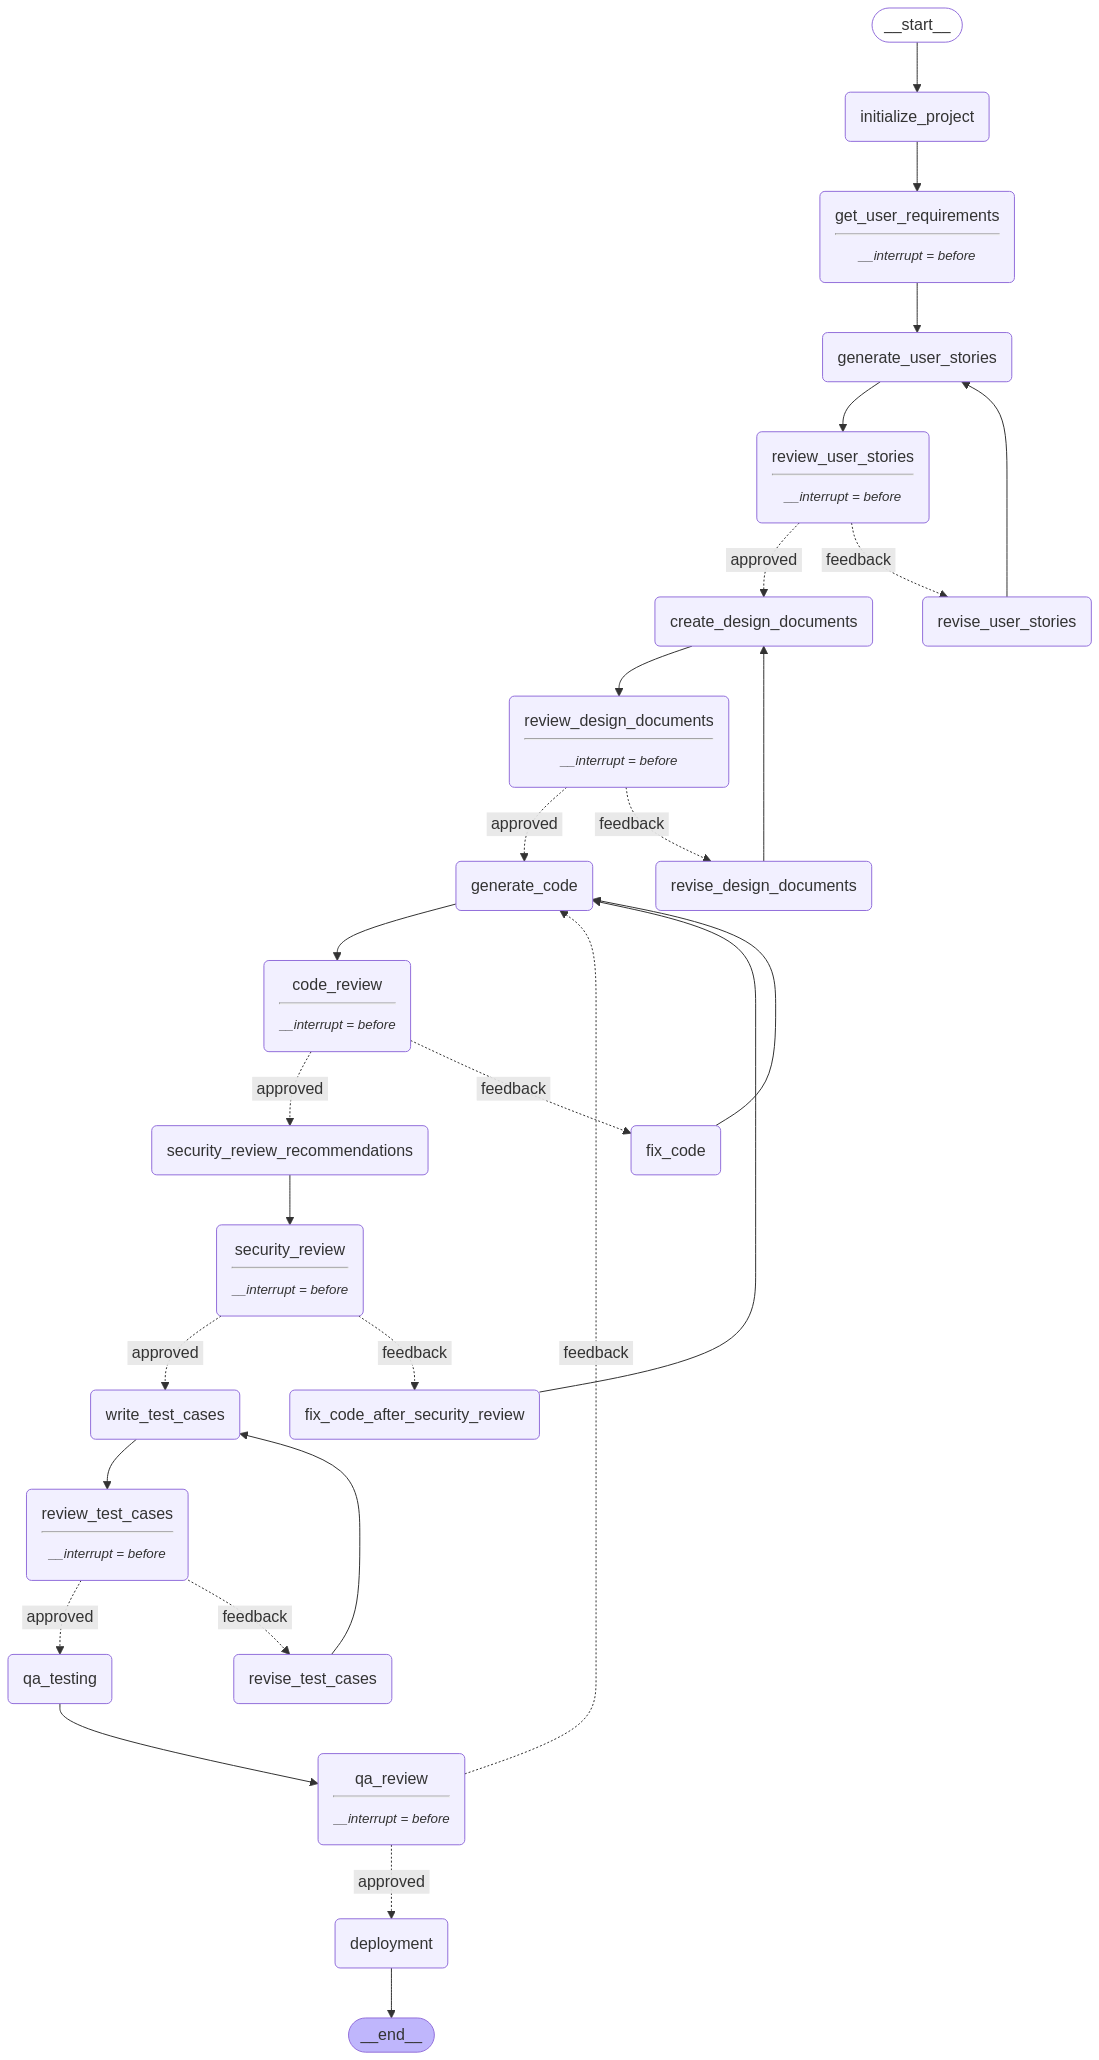
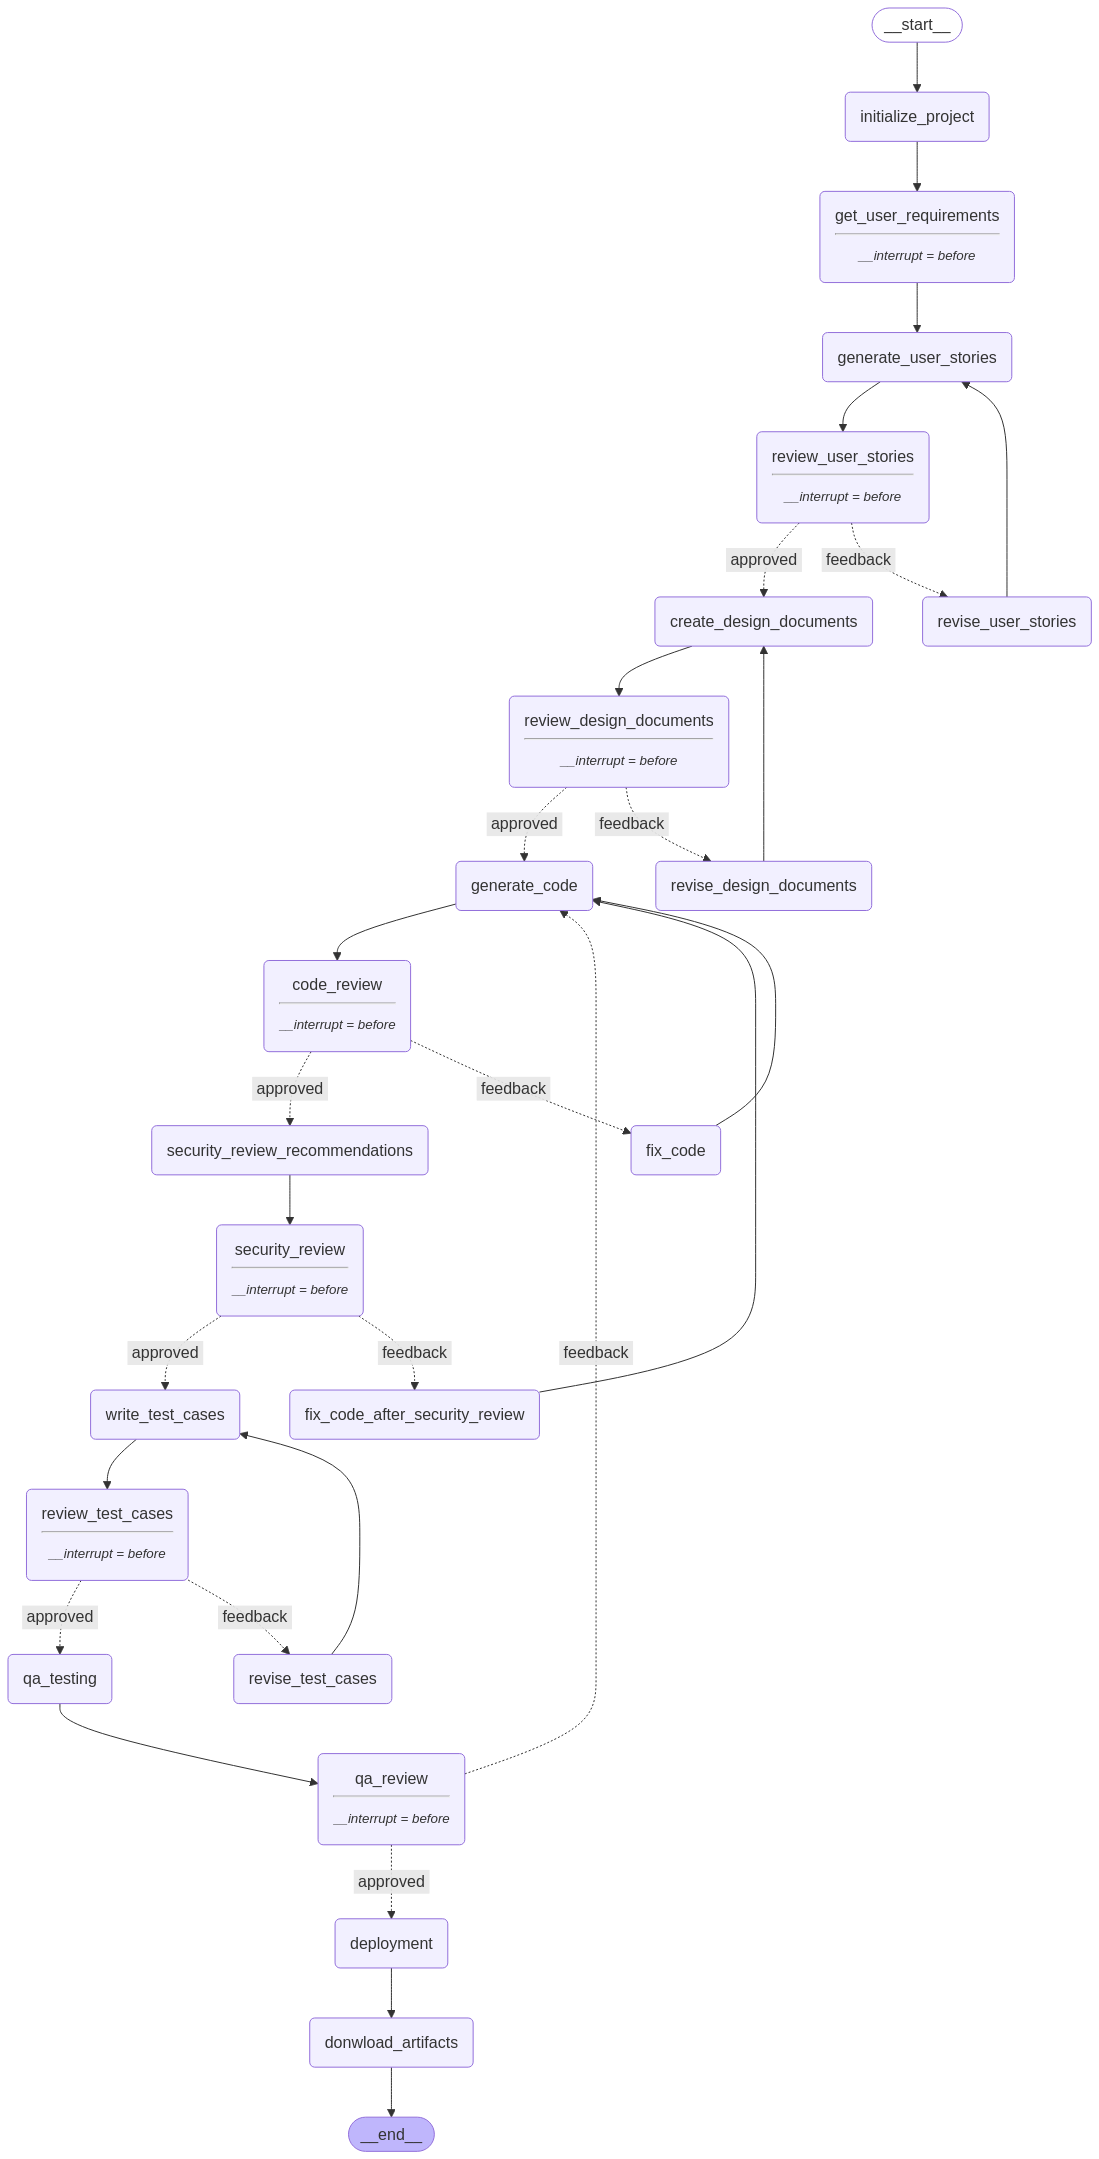
Artifacts download

diff --git a/src/sdlc_automation_agent/nodes/markdown_node.py b/src/sdlc_automation_agent/nodes/markdown_node.py
@@ -1,0 +1,123 @@
+import os
+from src.sdlc_automation_agent.state.sdlc_state import SDLCState
+from src.sdlc_automation_agent.utils.Utility import Utility
+
+class MarkdownArtifactsNode:
+    """
+    Graph Node for generating Markdown artifacts for the SDLC process.
+    This node generates Markdown files for:
+    - Project Requirements
+    - User Stories
+    - Design Documents
+    - Generated Code
+    and saves them to the "artifacts" folder.
+    """
+    
+    def __init__(self):
+        self.utility = Utility()
+    
+    def generate_markdown_artifacts(self, state: SDLCState):
+        """
+        Generate Markdown files for each step in the SDLC state and save them to the artifacts folder.
+        Returns the updated state with a new key 'artifacts' that maps to a dictionary of file paths.
+        """
+        artifacts_dir = "artifacts"
+        os.makedirs(artifacts_dir, exist_ok=True)
+        
+        project_name = state.get("project_name", "Project")
+        
+        # -- Project Requirements Markdown --
+        requirements = state.get("requirements", [])
+        md_project = f"# Project Requirement for {project_name}\n\n"
+        md_project += "## Requirements\n"
+        md_project += self.utility.format_list(requirements)
+        file_project = os.path.join(artifacts_dir, "Project_Requirement.md")
+        with open(file_project, "w") as f:
+            f.write(md_project)
+        
+        # -- User Stories Markdown --
+        user_stories = state.get("user_stories", None)
+        file_stories = None
+        if user_stories:
+            md_stories = f"# User Stories for {project_name}\n\n"
+            md_stories += self.utility.format_user_stories(user_stories)
+            file_stories = os.path.join(artifacts_dir, "User_Stories.md")
+            with open(file_stories, "w") as f:
+                f.write(md_stories)
+        
+        # -- Design Documents Markdown --
+        design_docs = state.get("design_documents", None)
+        file_design = None
+        if design_docs:
+            md_design = f"# Design Documents for {project_name}\n\n"
+            md_design += "## Functional Design Document\n"
+            md_design += design_docs.get("functional", "No Functional Design Document available.")
+            md_design += "\n\n## Technical Design Document\n"
+            md_design += design_docs.get("technical", "No Technical Design Document available.")
+            file_design = os.path.join(artifacts_dir, "Design_Documents.md")
+            with open(file_design, "w") as f:
+                f.write(md_design)
+        
+        # -- Generated Code Markdown --
+        code_generated = state.get("code_generated", None)
+        file_code = None
+        if code_generated:
+            md_code = f"# Generated Code for {project_name}\n\n"
+            md_code += "\n" + code_generated
+            file_code = os.path.join(artifacts_dir, "Generated_Code.md")
+            with open(file_code, "w") as f:
+                f.write(md_code)
+        
+       # -- Security Recommendations Markdown --
+        security_recommendations = state.get("security_recommendations", None)
+        file_security = None
+        if security_recommendations:
+            md_security = f"# Security Recommendations for {project_name}\n\n"
+            md_security += security_recommendations
+            file_security = os.path.join(artifacts_dir, "Security_Recommendations.md")
+            with open(file_security, "w") as f:
+                f.write(md_security)
+        
+        # -- Test Cases Markdown --
+        test_cases = state.get("test_cases", None)
+        file_tests = None
+        if test_cases:
+            md_tests = f"# Test Cases for {project_name}\n\n"
+            md_tests += "\n" + test_cases
+            file_tests = os.path.join(artifacts_dir, "Test_Cases.md")
+            with open(file_tests, "w") as f:
+                f.write(md_tests)
+        
+        # -- QA Testing Comments Markdown --
+        qa_testing_comments = state.get("qa_testing_comments", None)
+        file_qa = None
+        if qa_testing_comments:
+            md_qa = f"# QA Testing Comments for {project_name}\n\n"
+            md_qa += qa_testing_comments
+            file_qa = os.path.join(artifacts_dir, "QA_Testing_Comments.md")
+            with open(file_qa, "w") as f:
+                f.write(md_qa)
+        
+        # -- Deployment Feedback Markdown --
+        deployment_feedback = state.get("deployment_feedback", None)
+        file_deployment = None
+        if deployment_feedback:
+            md_deployment = f"# Deployment Feedback for {project_name}\n\n"
+            md_deployment += deployment_feedback
+            file_deployment = os.path.join(artifacts_dir, "Deployment_Feedback.md")
+            with open(file_deployment, "w") as f:
+                f.write(md_deployment)
+        
+        # Update the state with the paths to the generated artifact files.
+        state["artifacts"] = {
+            "Project_Requirements": file_project,
+            "User_Stories": file_stories,
+            "Design_Documents": file_design,
+            "Generated_Code": file_code,
+            "Security_Recommendations": file_security,
+            "Test_Cases": file_tests,
+            "QA_Testing_Comments": file_qa,
+            "Deployment_Feedback": file_deployment
+        }
+        print("Markdown artifacts generated in folder:", artifacts_dir)
+        return state

diff --git a/src/sdlc_automation_agent/ui/streamlit_ui/streamlit_app.py b/src/sdlc_automation_agent/ui/streamlit_ui/streamlit_app.py
@@ -125,7 +125,7 @@ def load_app():
             return
 
         # Create tabs for different stages
-        tabs = st.tabs(["Project Requirement", "User Stories", "Design Documents", "Code Generation", "Test Cases", "QA Testing", "Deployment"])
+        tabs = st.tabs(["Project Requirement", "User Stories", "Design Documents", "Code Generation", "Test Cases", "QA Testing", "Deployment", "Download Artifacts"])
 
         # ---------------- Tab 1: Project Requirement ----------------
         with tabs[0]:
@@ -424,9 +424,33 @@ def load_app():
                 if "deployment_feedback" in st.session_state.state:
                     deployment_feedback = st.session_state.state["deployment_feedback"]        
                     st.markdown(deployment_feedback)
+                    st.session_state.stage = const.ARTIFACTS
                                 
             else:
                 st.info("Deplopment verification pending or not reached yet.")
+                
+        # ---------------- Tab 8: Artifacts ----------------
+        with tabs[7]:
+            st.header("Artifacts")
+            if "artifacts" in st.session_state.state and st.session_state.state["artifacts"]:
+                st.subheader("Download Artifacts")
+                for artifact_name, artifact_path in st.session_state.state["artifacts"].items():
+                    if artifact_path:
+                        try:
+                            with open(artifact_path, "rb") as f:
+                                file_bytes = f.read()
+                            st.download_button(
+                                label=f"Download {artifact_name}",
+                                data=file_bytes,
+                                file_name=os.path.basename(artifact_path),
+                                mime="application/octet-stream"
+                            )
+                        except Exception as e:
+                            st.error(f"Error reading {artifact_name}: {e}")
+                    else:
+                        st.info(f"{artifact_name} not available.")
+            else:
+                st.info("No artifacts generated yet.")
 
     except Exception as e:
         raise ValueError(f"Error occured with Exception : {e}")

diff --git a/src/sdlc_automation_agent/graph/graph_builder.py b/src/sdlc_automation_agent/graph/graph_builder.py
@@ -3,6 +3,7 @@ from src.sdlc_automation_agent.state.sdlc_state import SDLCState
 from src.sdlc_automation_agent.nodes.project_requirement_node import ProjectRequirementNode
 from src.sdlc_automation_agent.nodes.design_document_node import DesingDocumentNode
 from src.sdlc_automation_agent.nodes.coding_node import CodingNode
+from src.sdlc_automation_agent.nodes.markdown_node import MarkdownArtifactsNode
 from langgraph.checkpoint.memory import MemorySaver
 from langchain_core.runnables.graph import MermaidDrawMethod
 
@@ -22,6 +23,7 @@ class GraphBuilder:
         self.project_requirement_node = ProjectRequirementNode(self.llm)
         self.design_document_node = DesingDocumentNode(self.llm)
         self.coding_node = CodingNode(self.llm)
+        self.markdown_node = MarkdownArtifactsNode()
         
         ## Nodes
         self.graph_builder.add_node("initialize_project", self.project_requirement_node.initialize_project)
@@ -50,6 +52,7 @@ class GraphBuilder:
         self.graph_builder.add_node("qa_testing", self.coding_node.qa_testing)
         self.graph_builder.add_node("qa_review", self.coding_node.qa_review)
         self.graph_builder.add_node("deployment", self.coding_node.deployment)
+        self.graph_builder.add_node("donwload_artifacts", self.markdown_node.generate_markdown_artifacts)
         
         
         ## Edges
@@ -115,7 +118,8 @@ class GraphBuilder:
                 "feedback": "generate_code"
             }
         )
-        self.graph_builder.add_edge("deployment", END)
+        self.graph_builder.add_edge("deployment", "donwload_artifacts")
+        self.graph_builder.add_edge("donwload_artifacts", END)
          
         
     # def setup_graph(self):

diff --git a/src/sdlc_automation_agent/utils/constants.py b/src/sdlc_automation_agent/utils/constants.py
@@ -8,6 +8,7 @@ SECURITY_REVIEW = "security_review"
 WRITE_TEST_CASES = "write_test_cases"
 QA_TESTING = "qa_testing"
 DEPLOYMENT = "deployment"
+ARTIFACTS = "artifacts"
 
 REVIEW_USER_STORIES = "review_user_stories"
 REVIEW_DESIGN_DOCUMENTS = "review_design_documents"

diff --git a/src/sdlc_automation_agent/state/sdlc_state.py b/src/sdlc_automation_agent/state/sdlc_state.py
@@ -46,6 +46,7 @@ class SDLCState(TypedDict):
     qa_testing_feedback: str
     deployment_status: str
     deployment_feedback: str
+    artifacts: dict[str, str]
     
     
     
